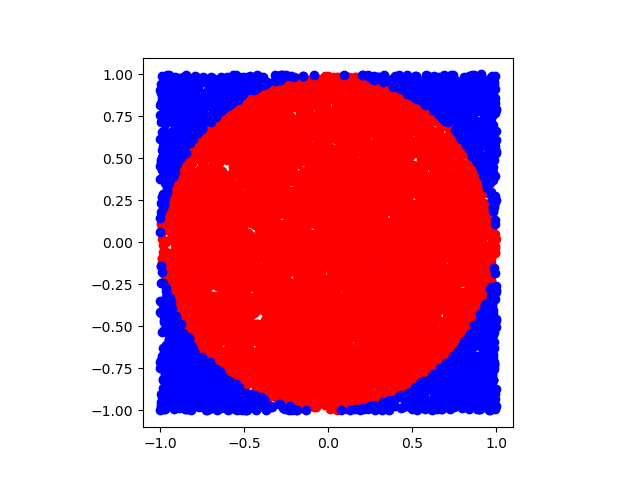
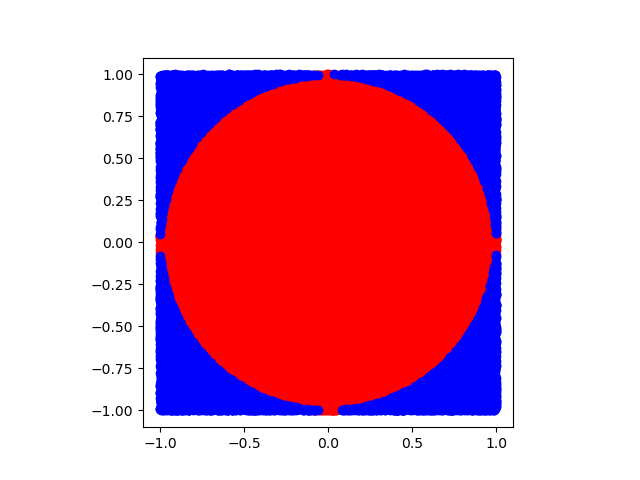
changed plot

diff --git a/test_file.py b/test_file.py
@@ -1,3 +1,9 @@
+"""Student: Jonas Sandgren
+Mail: jonas.sandgren.8503@student.uu.se
+Reviewed by:Naser
+Date reviewed:12-10-2023"""
+
+
 import random
 import math
 import matplotlib.pyplot as plt
@@ -17,7 +23,7 @@ import matplotlib.pyplot as plt
 
 #     pi_approx = 4 * nc / n
 
-#     print(f"Number of points inside the circle: {nc}")
+#     # print(f"Number of points inside the circle: {nc}")
 #     print(f"Approximation of π: {pi_approx}")
 #     print(f"Builtin constant π: {math.pi}")
 
@@ -25,9 +31,9 @@ import matplotlib.pyplot as plt
 #     plt.scatter(*zip(*points_inside), color='red')
 #     plt.scatter(*zip(*points_outside), color='blue')
 #     plt.gca().set_aspect('equal', adjustable='box')
-#     #plt.savefig('monte_carlo_pi.png')
+#     plt.savefig('monte_carlo_pi.png')
 
-# monte_carlo_pi(10000)  # Change this to the number of points you want to generate
+# monte_carlo_pi(100000)  # Change this to the number of points you want to generate
 
 from functools import reduce
 import time
@@ -66,13 +72,10 @@ if __name__ == '__main__':
     print(f'process took: {end-start} sec')
 
     for n_pros in [10]:
-        d_new = [d] * len(n_new)
-        n_new = [(1000000 // n_pros, d_new) for _ in range(n_pros)]
-        start1 = pc()
-        with future.ProcessPoolExecutor() as ex:
-            result = list(ex.map(monte_carlo_hyper, n_new))
-            for r in result:
-                print(r)
-                print(f'it took {end1-start1} sec')
-        end1 = pc()
-        print(f'for {n_pros} number of threads, it took {end1-start1} sec')
+        d_new = [d]
+        n_new = [n // n_pros for _ in range(n_pros)]
+        start = pc()
+        with future.ThreadPoolExecutor() as ex:
+            result = list(ex.map(monte_carlo_hyper, n_new, d_new))
+        end = pc()
+        print(f'for {n_pros} number of threads, it took {end-start} sec')

diff --git a/MA4_2.py b/MA4_2.py
@@ -1,3 +1,9 @@
+"""Student: Jonas Sandgren
+Mail: jonas.sandgren.8503@student.uu.se
+Reviewed by:Naser
+Date reviewed:12-10-2023"""
+
+
 #!/usr/bin/env python3
 
 from person import Person
@@ -24,13 +30,13 @@ def main():
 	pyTime = []
 	numbaTime = []
 	cppTime = []
-	sweepingRange = range(40, 49)
+	sweepingRange = range(20, 30)
 	for i in sweepingRange:
-		# start = pc()
-		# fib(i)
-		# end = pc()
-		# pyTime.append(end-start)
-		# print(f'fib in python took: {end-start} sec to run')
+		start = pc()
+		fib(i)
+		end = pc()
+		pyTime.append(end-start)
+		print(f'fib in python took: {end-start} sec to run')
 
 
 		start = pc()
@@ -49,11 +55,12 @@ def main():
 		print(f'fib in c++ took: {end-start} sec to run')
 
 	plt.figure()
-	#plt.plot(sweepingRange, pyTime)  # Plot the chart 
+	plt.yscale('log')
+	plt.plot(sweepingRange, pyTime)  # Plot the chart 
 	plt.plot(sweepingRange, numbaTime)  # Plot the chart
 	plt.plot(sweepingRange, cppTime)  # Plot the chart
 	plt.savefig("time.png") 
-	#plt.show()
+	plt.show()
 
 
 

diff --git a/person.py b/person.py
@@ -1,3 +1,9 @@
+"""Student: Jonas Sandgren
+Mail: jonas.sandgren.8503@student.uu.se
+Reviewed by:Naser
+Date reviewed:12-10-2023"""
+
+
 """ Python interface to the C++ Person class """
 import ctypes
 lib = ctypes.cdll.LoadLibrary('./libperson.so')

diff --git a/person.cpp b/person.cpp
@@ -1,3 +1,8 @@
+"""Student: Jonas Sandgren
+Mail: jonas.sandgren.8503@student.uu.se
+Reviewed by:Naser
+Date reviewed:12-10-2023"""
+
 #include <cstdlib>
 // Person class 
 
